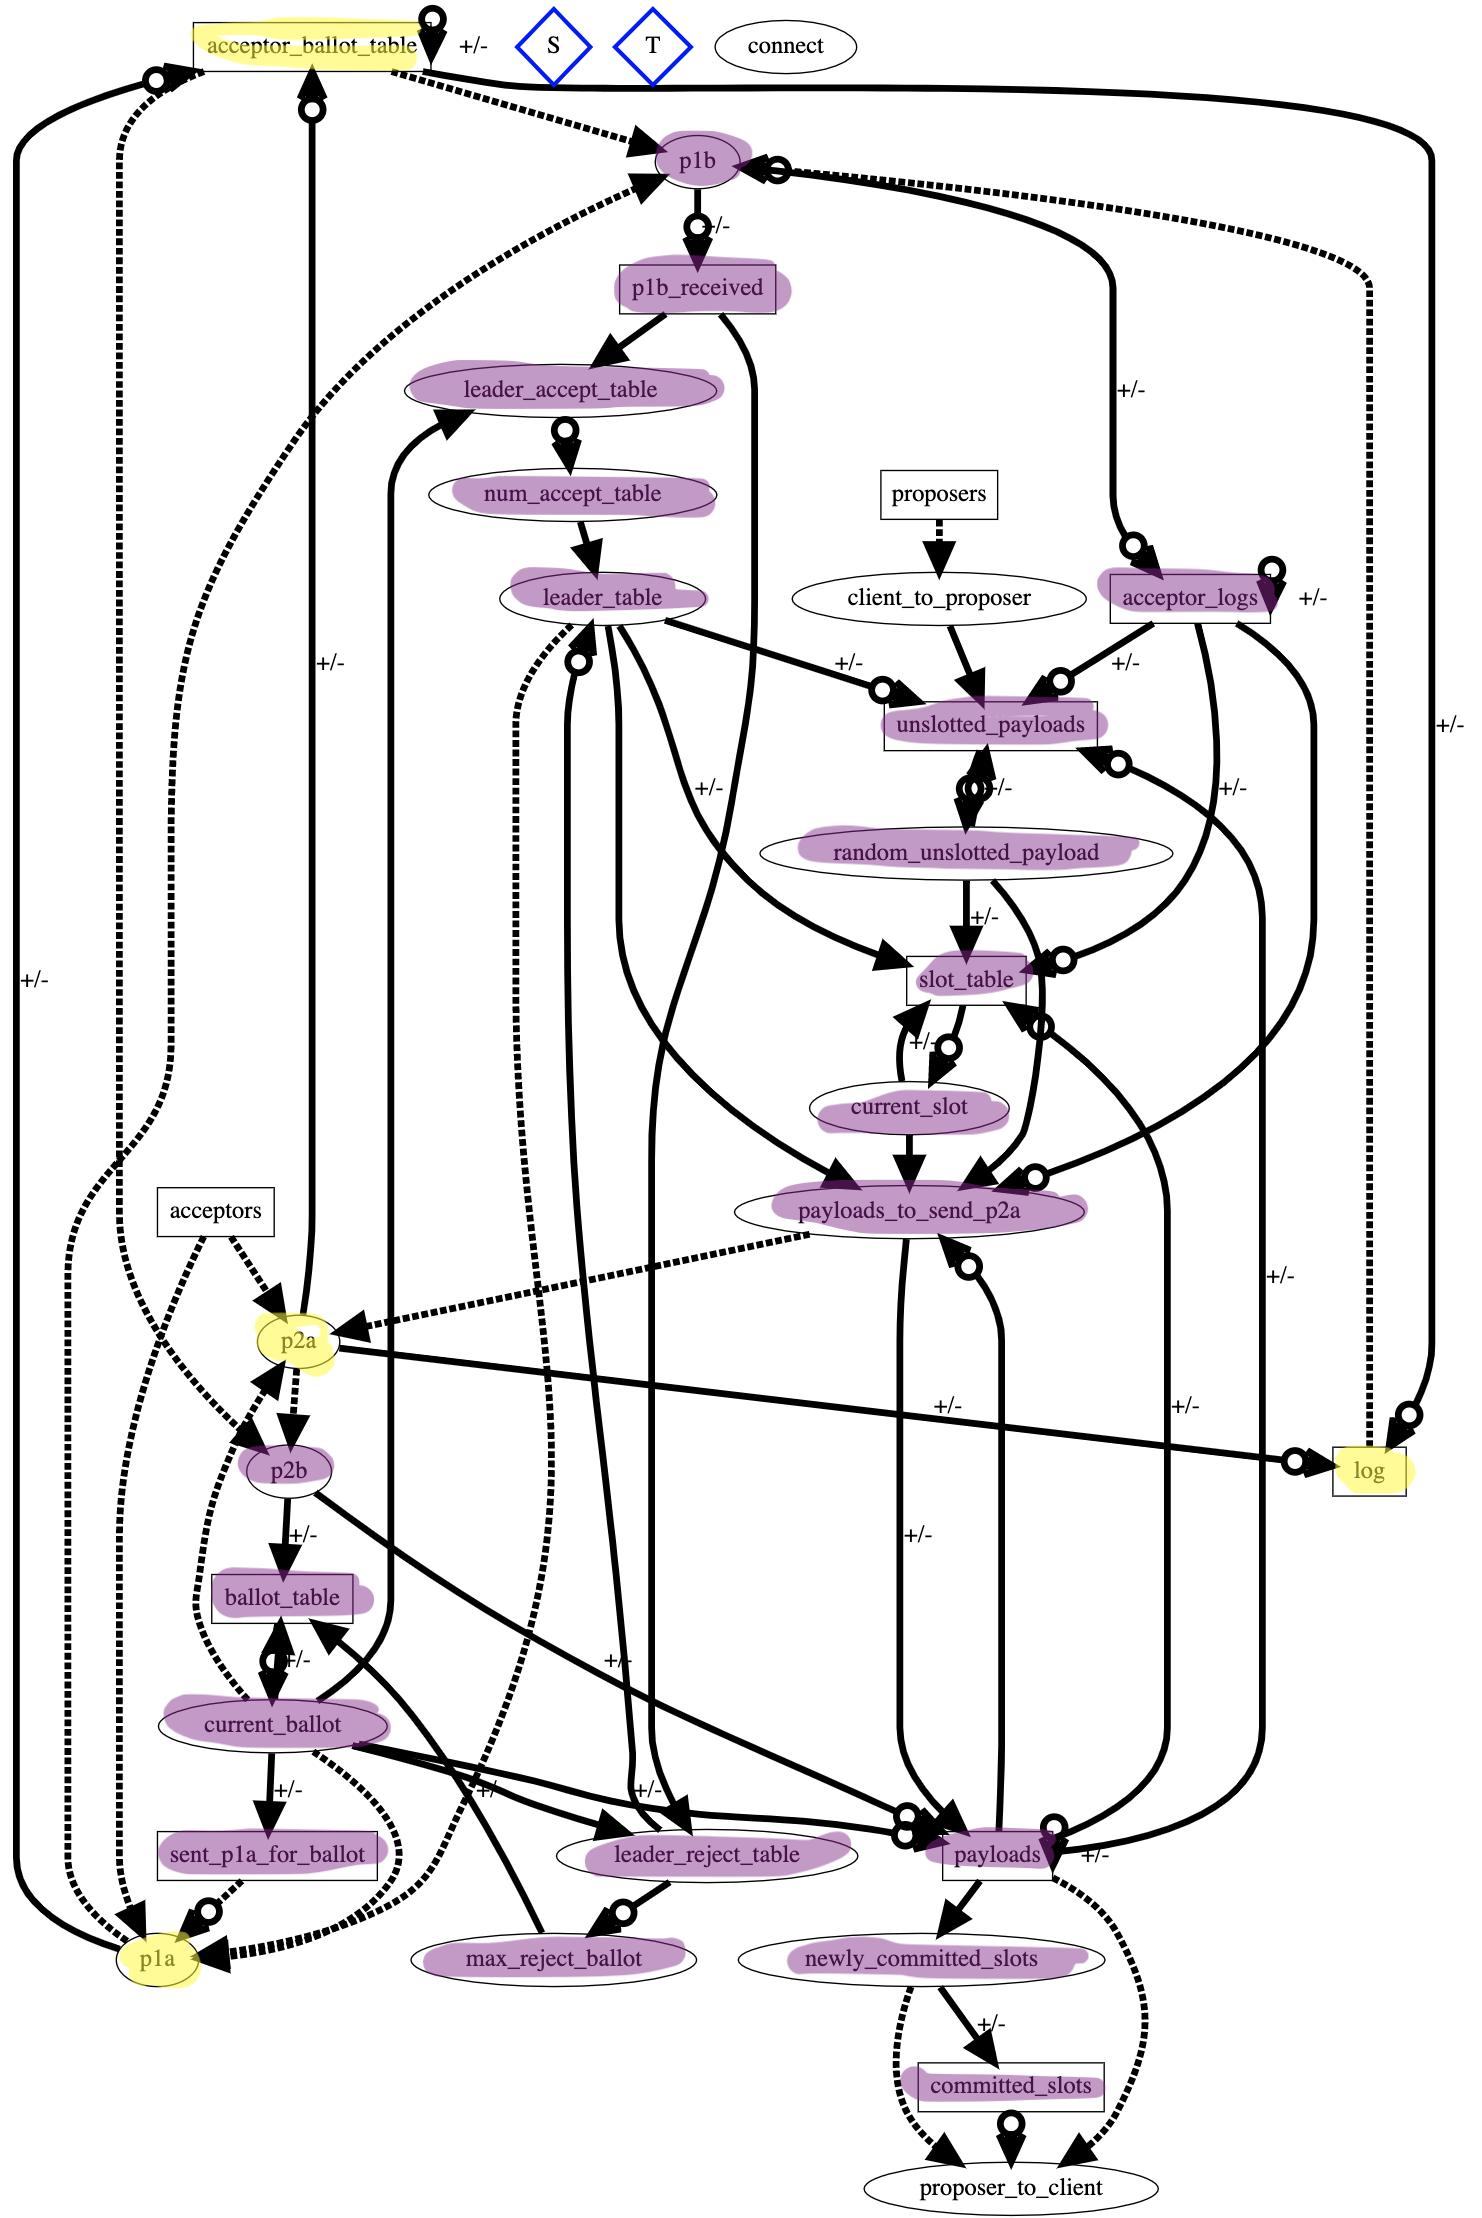
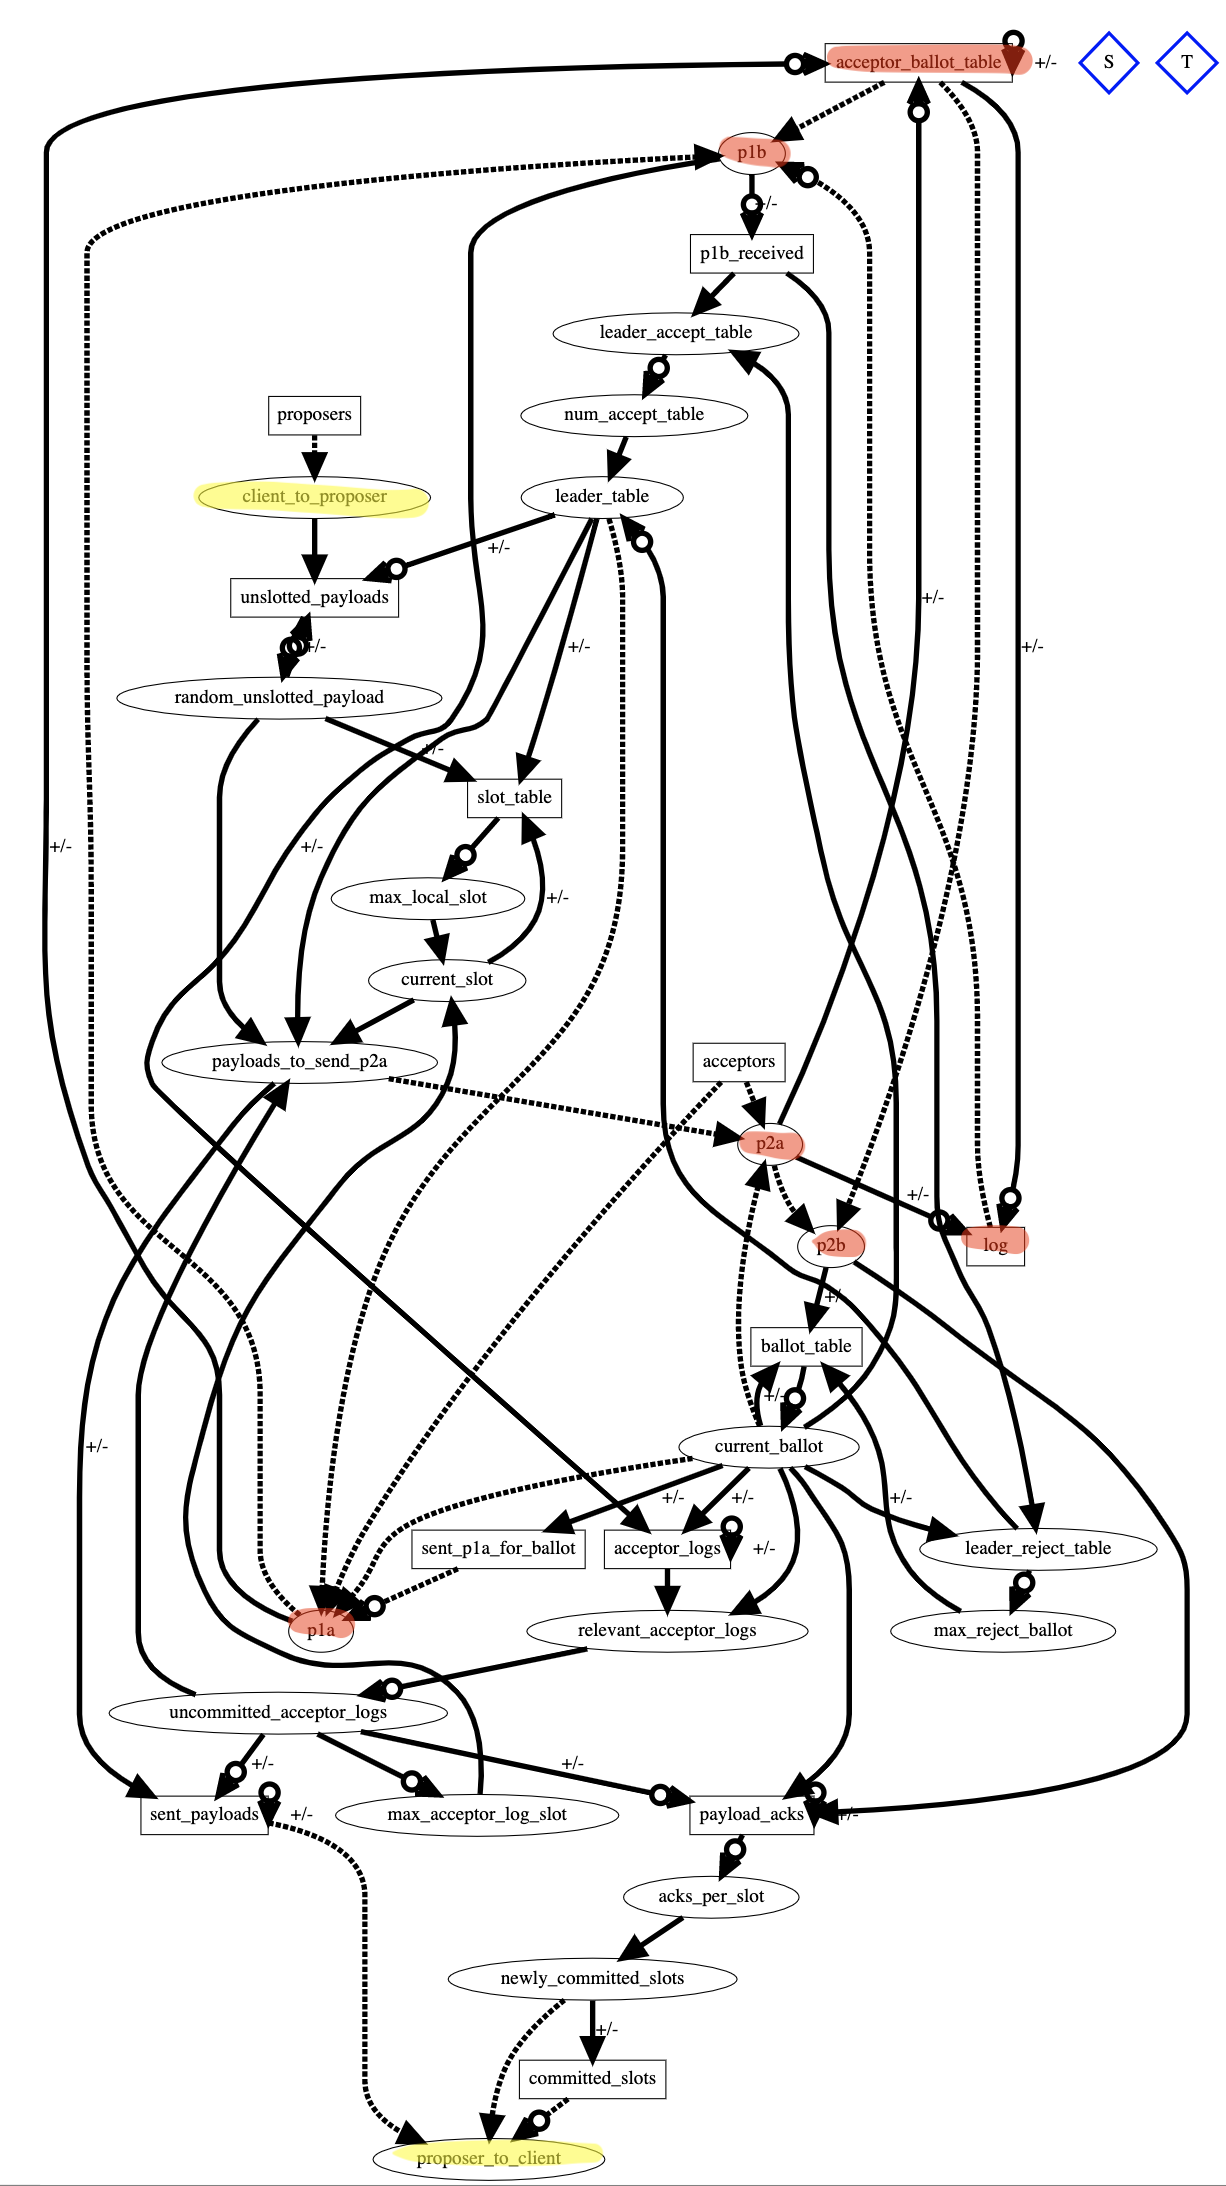
More monotonicity

diff --git a/paxos/paxos_proposer_module.rb b/paxos/paxos_proposer_module.rb
@@ -6,9 +6,10 @@ module PaxosProposerModule
       acceptors <= [[acceptor_addr]]
       connect <~ [[acceptor_addr, ip_port, @id, "proposer"]]
     end
-    ballot_table <= [[1]]
+    ballot_table <= [[@id, 1]]
     leader_table <= [[false]]
     slot_table <= [[0]]
+    id_table <= [[@id]]
   end
 
   bloom do
@@ -17,29 +18,36 @@ module PaxosProposerModule
     stdio <~ client_to_proposer { |incoming| ["client sent: #{incoming.payload}"] }
 
     # send p1a TODO wait on heartbeats
-    current_ballot <= ballot_table.group([], max(:num))
+    current_ballot <= ballot_table.group([:id, :num], max(:num))
+                                  .group([:num], max(:id)) do |num, id|
+      if id == @id
+        [num] # we are leader, don't increment
+      else
+        [num + 1] # increment
+      end
+    end
     p1a <~ (acceptors * current_ballot * leader_table).combos do |acceptor, ballot, is_leader|
       [acceptor.addr, ip_port, @id, ballot.num] if !is_leader.bool && !sent_p1a_for_ballot.include?([ballot.num])
     end
+    # TODO is this correct? Want to make sure that we do not resend p1a (assumes reliable channels)
     sent_p1a_for_ballot <+ current_ballot { |ballot| [ballot.num] }
 
     # process p1b
-    p1b_received <+- p1b { |incoming| [incoming.acceptor_client, incoming.id, incoming.ballot_num, incoming.log] }
-    leader_accept_table <= (p1b_received * current_ballot).pairs do |incoming, ballot|
-      [incoming.acceptor] if incoming.id == @id && incoming.ballot_num == ballot.num
-    end
-    leader_reject_table <= (p1b_received * current_ballot).pairs do |incoming, ballot|
-      [incoming.acceptor, incoming.ballot_num] if incoming.ballot_num > ballot.num || (incoming.id > @id && incoming.ballot_num == ballot.num)
-    end
+    p1b_received <= p1b { |incoming| [incoming.acceptor_client, incoming.sent_ballot_num, incoming.id,
+                                      incoming.ballot_num, incoming.log] }
+    leader_accept_table <= (p1b_received * current_ballot * id_table)
+                             .combos(p1b_received.sent_ballot_num => current_ballot.num,
+                                     p1b_received.ballot_num => current_ballot.num,
+                                     p1b_received.id => id_table.id) { |incoming, ballot, id| [incoming.acceptor] }
     num_accept_table <= leader_accept_table.group([], count)
-    leader_table <= num_accept_table { |num_accept| [num_accept.num >= majority_acceptors && !leader_reject_table.exists?] }
-    # on rejection
-    max_reject_ballot <= leader_reject_table.group([], max(:ballot_num))
-    ballot_table <+ max_reject_ballot { |max_ballot| [max_ballot.ballot_num + 1] }
+    leader_table <= num_accept_table { |num_accept| [num_accept.num >= majority_acceptors] }
+    # on (potential) rejection
+    ballot_table <= p1b_received.group([:id], max(:ballot_num))
     # parse logs received in p1b
     # Note: this always returns nil; but acceptor_logs is on lhs to show dependence
     acceptor_logs <+ (p1b * current_ballot).pairs do |incoming, ballot|
-      if incoming.id == @id && incoming.ballot_num == ballot.num # No need to store logs if we're not the leader
+      if incoming.sent_ballot_num == ballot.num && incoming.id == @id &&
+        incoming.ballot_num == ballot.num # No need to store logs if we're not the leader
         # sample log: [["[1000, 0, 0, \"Test\"]"], ["[2000, 0, 0, \"test 2\"]"]]
         # strip string of unwanted characters: [ , " ] \
         # Note: will delete these from input if it was a part of the input. Assumes input is clean
@@ -59,9 +67,8 @@ module PaxosProposerModule
       end
     end
     stdio <~ leader_table { |is_leader| ["Is leader: #{is_leader.bool.to_s}"] }
-    stdio <~ acceptor_logs.inspected
     # acceptor_logs' size is strictly increasing. Ignore logs for ballots smaller than the current one
-    relevant_acceptor_logs <= (acceptor_logs * current_ballot).pairs(:p1a_ballot => :num) do |log, ballot|
+    relevant_acceptor_logs <= (acceptor_logs * current_ballot).pairs(:sent_ballot_num => :num) do |log, ballot|
       puts "Relevant acceptor log added" # Note: This print is necessary for code execution, for some reason
       [log.acceptor, log.slot, log.id, log.ballot_num, log.payload]
     end
@@ -89,6 +96,7 @@ module PaxosProposerModule
       [log.slot, "", log.data[3]] if is_leader.bool && log.data[0] < majority_acceptors
     end
     # discard client commands that are the same slot as an uncommitted command
+    # TODO might be a monotonic way to do this
     sent_payloads <- (uncommitted_acceptor_logs * sent_payloads).pairs(:slot => :slot) { |log, payload| [log.slot] }
     payload_acks <- (uncommitted_acceptor_logs * payload_acks).pairs(:slot => :slot) { |log, payload| [log.slot] }
 
@@ -119,7 +127,7 @@ module PaxosProposerModule
     newly_committed_slots <= acks_per_slot { |acks| [acks.slot] if acks.num_acks >= majority_acceptors }
     # on reject
     ballot_table <+ (p2b * current_ballot).pairs do |incoming, ballot|
-      [incoming.ballot_num] if incoming.ballot_num > ballot.num || (incoming.ballot_num == ballot.num && incoming.id > @id)
+      [incoming.id, incoming.ballot_num] if incoming.ballot_num > ballot.num || (incoming.ballot_num == ballot.num && incoming.id > @id)
     end
 
     # send to client

diff --git a/paxos/paxos_acceptor_module.rb b/paxos/paxos_acceptor_module.rb
@@ -8,39 +8,33 @@ module PaxosAcceptorModule
     stdio <~ p1a { |incoming| ["p1a id: #{incoming.id.to_s}, ballot num: #{incoming.ballot_num.to_s}"] }
     stdio <~ p2a { |incoming| ["p2a id: #{incoming.id.to_s}, ballot num: #{incoming.ballot_num.to_s}, payload: #{incoming.payload}, slot: #{incoming.slot.to_s}"] }
 
-    # update ballot to whatever largest value we get
-    acceptor_ballot_table <- (p1a * acceptor_ballot_table).pairs do |incoming, ballot|
-      [ballot.id, ballot.num] if incoming.ballot_num >= ballot.num && incoming.id >= ballot.id
-    end
-    acceptor_ballot_table <+ (p1a * acceptor_ballot_table).pairs do |incoming, ballot|
-      [incoming.id, incoming.ballot_num] if incoming.ballot_num >= ballot.num && incoming.id >= ballot.id
-    end
-    acceptor_ballot_table <- (p2a * acceptor_ballot_table).pairs do |incoming, ballot|
-      [ballot.id, ballot.num] if incoming.ballot_num >= ballot.num && incoming.id >= ballot.id
-    end
-    acceptor_ballot_table <+ (p2a * acceptor_ballot_table).pairs do |incoming, ballot|
-      [incoming.id, incoming.ballot_num] if incoming.ballot_num >= ballot.num && incoming.id >= ballot.id
-    end
+    acceptor_ballot_table <= p1a { |incoming| [incoming.id, incoming.ballot_num] }
+    acceptor_ballot_table <= p2a { |incoming| [incoming.id, incoming.ballot_num] }
+    # update ballot to whatever largest value we get (partial order)
+    max_acceptor_ballot <= acceptor_ballot_table.group([:id, :num], max(:num))
+                                                .group([:num], max(:id)) { |num, id| [id, num] }
+
+    # TODO reduce concurrency in processing; must update acceptor_ballot_table before p1b or p2b responses
+    # Then we can also remove the if statements and just return the current max ballot
 
     # process p1a
-    p1b <~ (p1a * acceptor_ballot_table).pairs do |incoming, ballot|
+    p1b <~ (p1a * max_acceptor_ballot).pairs do |incoming, ballot|
       if incoming.ballot_num >= ballot.num && incoming.id >= ballot.id
-        [incoming.proposer_client, ip_port, incoming.id, incoming.ballot_num, log.inspected]
+        [incoming.proposer_client, ip_port, incoming.id, incoming.ballot_num, incoming.ballot_num, log.inspected]
       else
-        [incoming.proposer_client, ip_port, ballot.id, ballot.num, log.inspected]
+        [incoming.proposer_client, ip_port, ballot.id, ballot.num, incoming.ballot_num, log.inspected]
       end
     end
 
-
     # process p2a
-    p2b <~ (p2a * acceptor_ballot_table).pairs do |incoming, ballot|
+    p2b <~ (p2a * max_acceptor_ballot).pairs do |incoming, ballot|
       if incoming.ballot_num >= ballot.num && incoming.id >= ballot.id
         [incoming.proposer_client, ip_port, incoming.id, incoming.ballot_num, incoming.slot]
       else
         [incoming.proposer_client, ip_port, ballot.id, ballot.num, incoming.slot]
       end
     end
-    log <+- (p2a * acceptor_ballot_table).pairs do |incoming, ballot|
+    log <+- (p2a * max_acceptor_ballot).pairs do |incoming, ballot|
       [[incoming.slot, incoming.id, incoming.ballot_num, incoming.payload]] if incoming.ballot_num >= ballot.num && incoming.id >= ballot.id
     end
   end

diff --git a/paxos/paxos_protocol.rb b/paxos/paxos_protocol.rb
@@ -5,26 +5,25 @@ module PaxosProtocol
     channel :client_to_proposer, [:@addr] => [:client, :payload]
     channel :proposer_to_client, [:@addr] => [:payload, :slot]
     channel :p1a, [:@addr] => [:proposer_client, :id, :ballot_num]
-    channel :p1b, [:@addr] => [:acceptor_client, :id, :ballot_num, :log] # log = [:slot] => [:id, :ballot_num, :payload]
+    channel :p1b, [:@addr] => [:acceptor_client, :id, :ballot_num, :sent_ballot_num, :log] # log = [:slot] => [:id, :ballot_num, :payload]
     channel :p2a, [:@addr] => [:proposer_client, :id, :ballot_num, :payload, :slot]
     channel :p2b, [:@addr] => [:acceptor_client, :id, :ballot_num, :slot]
 
     # proposer
     table :acceptors, [:addr]
+    table :id_table, [:id] # store @id, useful for joining
     table :sent_p1a_for_ballot, [:num] # stores the ballots for all p1as sent
-    table :ballot_table, [:num] # stores all ballots seen
-    table :p1b_received, [:acceptor] => [:id, :ballot_num, :log] # stores all p1bs ever received
+    table :ballot_table, [:id, :num] # stores all ballots seen
+    table :p1b_received, [:acceptor, :sent_ballot_num] => [:id, :ballot_num, :log] # stores all p1bs ever received
     table :slot_table, [:num] # stores all slots used in the past
-    table :acceptor_logs, [:p1a_ballot, :acceptor, :slot] => [:id, :ballot_num, :payload]
+    table :acceptor_logs, [:sent_ballot_num, :acceptor, :slot] => [:id, :ballot_num, :payload]
     table :unslotted_payloads, [:client] => [:payload]
     table :sent_payloads, [:slot] => [:client, :payload]
     table :payload_acks, [:slot, :acceptor]
     table :committed_slots, [:slot]
     scratch :leader_table, [:bool]
     scratch :leader_accept_table, [:acceptor]
-    scratch :leader_reject_table, [:acceptor] => [:ballot_num]
-    scratch :max_reject_ballot, [] => [:ballot_num]
-    scratch :current_ballot, [] => [:num]
+    scratch :current_ballot, [:num]
     scratch :num_accept_table, [] => [:num]
     scratch :relevant_acceptor_logs, [:acceptor, :slot] => [:id, :ballot_num, :payload]
     scratch :uncommitted_acceptor_logs, [:slot] => [:data]
@@ -35,11 +34,11 @@ module PaxosProtocol
     scratch :payloads_to_send_p2a, [:slot] => [:client, :payload]
     scratch :acks_per_slot, [:slot] => [:num_acks]
     scratch :newly_committed_slots, [:slot]
-    # TODO heartbeats? leader failure & re-election?
 
     # acceptor
     table :log, [:slot] => [:id, :ballot_num, :payload]
     table :acceptor_ballot_table, [:id, :num]
+    scratch :max_acceptor_ballot, [:id, :num]
 
     # client
     table :proposers, [:addr]
